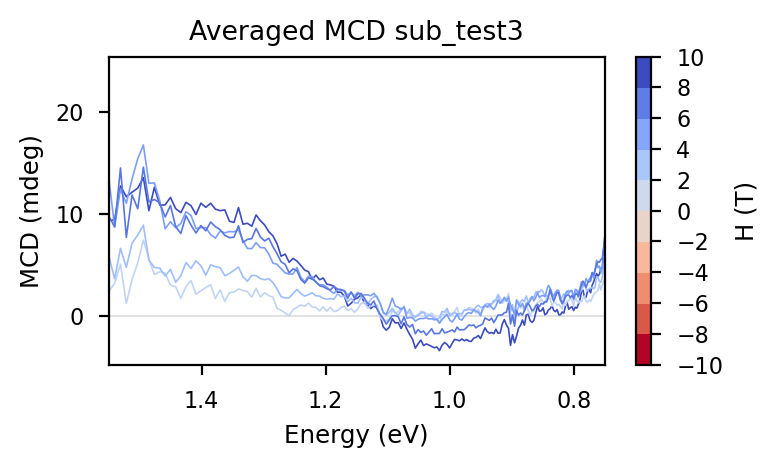
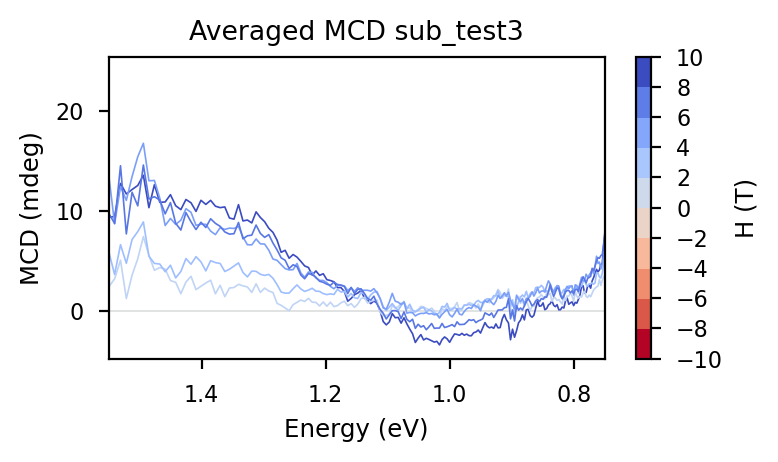
Updated mcd fitting routine with modulus calc

diff --git a/mcd/fitting/mcd_full_fitting_routine_test.py b/mcd/fitting/mcd_full_fitting_routine_test.py
@@ -217,6 +217,10 @@ def plot_CP_diff(x,y,ev=0.04): #function to visually show separation of LCP and 
 
     return fit_diff
 
+def nm_to_eV(nm):
+    eV = 1240 / nm
+    return ["%.3f" % z for z in eV]
+
 def func(x,ev): #define simulated mcd function from absorbance spectrum
     coeff=poly.polyfit(df_abs['energy'],df_abs['absorbance'],9) #find polynomial coeffs from original absorption spectra
     LCP=poly.polyval(x+ev,coeff) #find y from +ev shifted LCP spectrum
@@ -329,24 +333,30 @@ def writeHTMLfile_difference(file_name,report_date):
 
 
 
-
 '''-------------------------------FUNCTIONAL CODE BELOW-------------------------------'''
 
 
 '''parse all data files'''
 #Change these pathways if using from GitHub.
-raw_mcd_dic = parse_mcd("/mnt/c/Users/roflc/Desktop/MCD 03-15-21 v2/") #raw mcd data in dictionary
-df_abs = parse_abs("/mnt/c/Users/roflc/Desktop/ABS 03-15-21/") #calculated abs data in dataframe
+raw_mcd_dic = parse_mcd("/mnt/c/Users/roflc/Desktop/MCD 03-10-21/") #raw mcd data in dictionary
+# df_abs = parse_abs("/mnt/c/Users/roflc/Desktop/ABS 03-15-21/") #calculated abs data in dataframe
 
-'''perform mcd experimental data operations'''
+'''fit raw and avg mcd straight from datafile - no workup'''
 plot_mcd(raw_mcd_dic,'raw',title='sample') #plot raw experimental mcd data
 df_avgs = calc_raw_avg_mcd(raw_mcd_dic) #
 plot_mcd(df_avgs,'avg',title='sample')
-# df_diff = calc_diff_mcd(df_avgs)
-# plot_diff_mcd(df_diff)
 
-'''perform mcd difference calculation'''
-raw_mcd_dic_blank = parse_mcd("/mnt/c/Users/roflc/Desktop/MCD 03-15-21 Blank/")
+'''mcd difference (no blank)'''
+for name, df in df_avgs.items():
+    df_avgs[name]['vac_mod'] = np.sqrt((df_avgs[name]['pemx'])**2 + (df_avgs[name]['pemy'])**2)
+    df_avgs[name]['vdc_mod'] = np.sqrt((df_avgs[name]['chpx'])**2 + (df_avgs[name]['chpy'])**2)
+    df_avgs[name]['total_mod_test'] = df_avgs[name]['vac_mod'] / df_avgs[name]['vdc_mod']
+    df_avgs[name]['0T_total_mod_sub'] = df_avgs[name]['total_mod_test'] - df_avgs['0']['total_mod_test']
+plot_mcd(df_avgs,'avg',title='total_mod_test',ydata='total_mod_test')
+plot_mcd(df_avgs,'avg',title='0T_total_mod_sub',ydata='0T_total_mod_sub')
+
+'''mcd difference with blank'''
+raw_mcd_dic_blank = parse_mcd("/mnt/c/Users/roflc/Desktop/MCD 03-11-21/")
 plot_mcd(raw_mcd_dic_blank,'raw',title='blank')
 df_blank_avgs = calc_raw_avg_mcd(raw_mcd_dic_blank)
 plot_mcd(df_blank_avgs,'avg',title='blank')
@@ -372,20 +382,20 @@ for name, df in df_avgs.items():
         all_pem_channels_added_diff_df[name]['energy'] = df['energy'] #fix energy
         all_pem_channels_added_diff_df[name]['field'] = df['field'] #fix field
         all_pem_channels_added_diff_df[name]['wavelength'] = df['wavelength'] #fix wavelength
-        all_pem_channels_added_diff_df[name]['samp_test'] = (df['pemx'] + df['pemy']) / (df['chpx']+df['chpy'])
-        all_pem_channels_added_diff_df[name]['blank_test'] = (df_blank['pemx'] + df_blank['pemy']) / (df_blank['chpx']+df_blank['chpy'])
+        all_pem_channels_added_diff_df[name]['samp_test'] = np.sqrt(df['pemx']**2 + df['pemy']**2) / np.sqrt(df['chpx']**2 + df['chpy']**2)
+        all_pem_channels_added_diff_df[name]['blank_test'] = np.sqrt(df_blank['pemx']**2 + df_blank['pemy']**2) / np.sqrt(df_blank['chpx']**2 + df_blank['chpy']**2)
         all_pem_channels_added_diff_df[name]['sub_test'] = all_pem_channels_added_diff_df[name]['samp_test'] - all_pem_channels_added_diff_df[name]['blank_test']
         all_pem_channels_added_diff_df[name]['sub_test_zero_subtracted'] = (all_pem_channels_added_diff_df[name]['sub_test'] - all_pem_channels_added_diff_df['0']['sub_test']) * 32982
-plot_mcd(all_pem_channels_added_diff_df,'avg',title='sub_test3',ydata='sub_test_zero_subtracted')
+plot_mcd(all_pem_channels_added_diff_df,'avg',title='sub_test3_modulus',ydata='sub_test_zero_subtracted')
 
-'''perform absorbance simulation data fitting operations'''
-plot_abs(df_abs,op='raw')
-plot_abs(df_abs)
+# '''perform absorbance simulation data fitting operations'''
+# plot_abs(df_abs,op='raw')
+# plot_abs(df_abs)
 
-fit_diff=plot_CP_diff(df_abs['energy'],df_abs['absorbance'])
-average_ev, std_dev_ev, average_m, std_dev_m, ev_list, m_list = calc_effective_mass_and_plot(fit_diff,all_pem_channels_added_diff_df)
+# fit_diff=plot_CP_diff(df_abs['energy'],df_abs['absorbance'])
+# average_ev, std_dev_ev, average_m, std_dev_m, ev_list, m_list = calc_effective_mass_and_plot(fit_diff,all_pem_channels_added_diff_df)
 
-'''write HTML file report'''
-# writeHTMLfile('mcd.html','11-11-2020')
-writeHTMLfile_difference('mcd_difference.html','03-15-2021, Both Max Signals')
+# '''write HTML file report'''
+# # writeHTMLfile('mcd.html','11-11-2020')
+# writeHTMLfile_difference('mcd_difference.html','03-15-2021, Both Max Signals')
  
